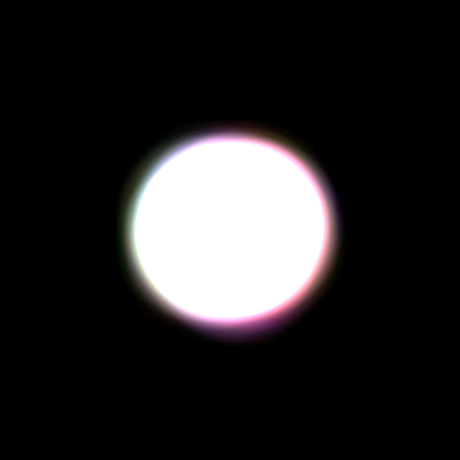
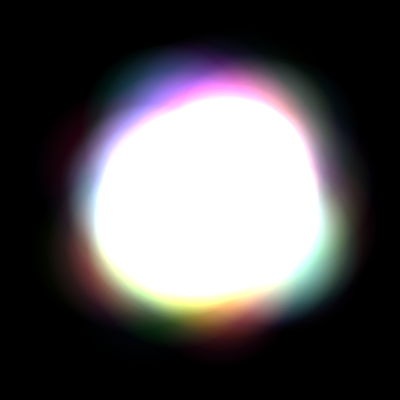
テンプレートの更新

diff --git a/core/app/assets/particle-parameter.js b/core/app/assets/particle-parameter.js
@@ -122,7 +122,7 @@ System.register([], function(exports_1, context_1) {
                         name: "Light Ball",
                         description: "鮮やかに光る玉",
                         imageId: "light_ball",
-                        property: { "bgColor": "#00000", "width": 460, "height": 460, "emitFrequency": "100", "startX": 230, "startXVariance": 0, "startY": 231, "startYVariance": 0, "initialDirection": 0, "initialDirectionVariance": "360", "initialSpeed": 3.5, "initialSpeedVariance": 0.1, "friction": "0.063", "accelerationSpeed": 0, "accelerationDirection": "275.8", "startScale": 3, "startScaleVariance": 0, "finishScale": "2", "finishScaleVariance": "0", "lifeSpan": 29, "lifeSpanVariance": "27", "startAlpha": "1", "startAlphaVariance": "0", "finishAlpha": "0", "finishAlphaVariance": "0", "shapeIdList": ["blur_circle"], "startColor": { "hue": 37, "hueVariance": 360, "saturation": "91", "saturationVariance": 0, "luminance": "56", "luminanceVariance": "16" }, "blendMode": true, "alphaCurveType": "0" }
+                        property: { "bgColor": "#00000", "width": 460, "height": 460, "emitFrequency": "100", "startX": 230, "startXVariance": 0, "startY": 231, "startYVariance": 0, "initialDirection": 0, "initialDirectionVariance": "360", "initialSpeed": 8.5, "initialSpeedVariance": 0.1, "friction": "0.063", "accelerationSpeed": 0, "accelerationDirection": "275.8", "startScale": 3, "startScaleVariance": 0, "finishScale": "2", "finishScaleVariance": "0", "lifeSpan": 29, "lifeSpanVariance": "27", "startAlpha": "1", "startAlphaVariance": "0", "finishAlpha": "0", "finishAlphaVariance": "0", "shapeIdList": ["blur_circle"], "startColor": { "hue": 37, "hueVariance": 360, "saturation": "91", "saturationVariance": 0, "luminance": "56", "luminanceVariance": "16" }, "blendMode": true, "alphaCurveType": "0" }
                     };
                     this.list = [];
                     this.list.push(this.setting2);

diff --git a/core/app/assets/particle-parameter.ts b/core/app/assets/particle-parameter.ts
@@ -153,6 +153,6 @@ export class ParticleParameter {
     name : "Light Ball",
     description : "鮮やかに光る玉",
     imageId : "light_ball",
-    property : {"bgColor":"#00000","width":460,"height":460,"emitFrequency":"100","startX":230,"startXVariance":0,"startY":231,"startYVariance":0,"initialDirection":0,"initialDirectionVariance":"360","initialSpeed":3.5,"initialSpeedVariance":0.1,"friction":"0.063","accelerationSpeed":0,"accelerationDirection":"275.8","startScale":3,"startScaleVariance":0,"finishScale":"2","finishScaleVariance":"0","lifeSpan":29,"lifeSpanVariance":"27","startAlpha":"1","startAlphaVariance":"0","finishAlpha":"0","finishAlphaVariance":"0","shapeIdList":["blur_circle"],"startColor":{"hue":37,"hueVariance":360,"saturation":"91","saturationVariance":0,"luminance":"56","luminanceVariance":"16"},"blendMode":true,"alphaCurveType":"0"}
+    property : {"bgColor":"#00000","width":460,"height":460,"emitFrequency":"100","startX":230,"startXVariance":0,"startY":231,"startYVariance":0,"initialDirection":0,"initialDirectionVariance":"360","initialSpeed":8.5,"initialSpeedVariance":0.1,"friction":"0.063","accelerationSpeed":0,"accelerationDirection":"275.8","startScale":3,"startScaleVariance":0,"finishScale":"2","finishScaleVariance":"0","lifeSpan":29,"lifeSpanVariance":"27","startAlpha":"1","startAlphaVariance":"0","finishAlpha":"0","finishAlphaVariance":"0","shapeIdList":["blur_circle"],"startColor":{"hue":37,"hueVariance":360,"saturation":"91","saturationVariance":0,"luminance":"56","luminanceVariance":"16"},"blendMode":true,"alphaCurveType":"0"}
   };
 }
